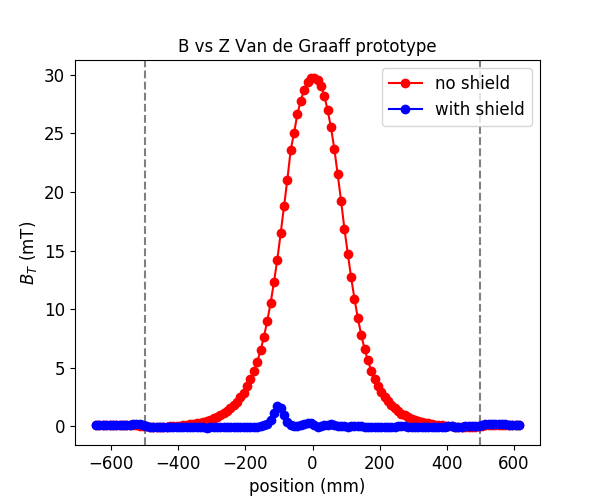
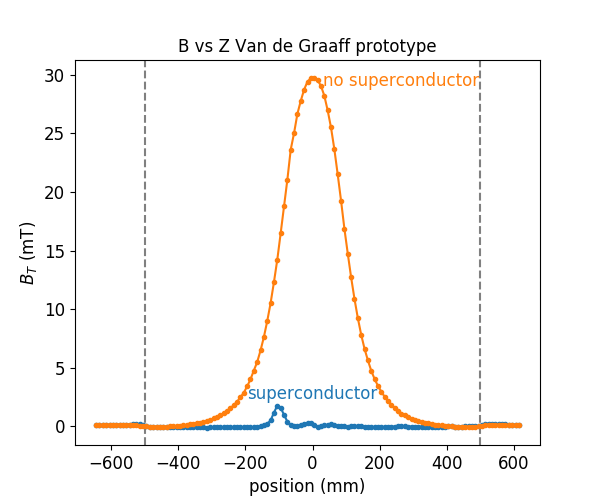
Update plot

Changed region(s): [[0.15, 0.12, 0.87, 0.87], [0.72, 0.21, 0.9, 0.24], [0.63, 0.21, 0.69, 0.24]]

diff --git a/pycloak/shielding_pub17/plot_shielding_BvsZ_vdg2layer.py b/pycloak/shielding_pub17/plot_shielding_BvsZ_vdg2layer.py
@@ -44,15 +44,17 @@ data_shield['pos'] = data_shield['pos'] - zcenter
 # ...
 
 # plot curves
-ax.plot( data_noshield['pos'], data_noshield['B1'], marker='o', color='r', label="no shield")
-ax.plot( data_shield['pos'], data_shield['B1'], marker='o', color='b', label="with shield")
+plt1=ax.plot( data_shield['pos'], data_shield['B1'], marker='.', label='shield')
+plt2=ax.plot( data_noshield['pos'], data_noshield['B1'], marker='.', label='no shield')
 
 # plot cosmetics: set axis parameters
 # ax.set_xlim(-12000, 12000)
 # ax.set_ylim(0,500)
 
 # add legend
-ax.legend(loc = 'upper right', prop={'size':12})
+#ax.legend(loc = 'upper right', prop={'size':12})
+ax.text(-195, 2.3, 'superconductor',fontsize=12,color=plt1[0].get_color())
+ax.text(30, 29, 'no superconductor',fontsize=12,color=plt2[0].get_color())
 
 # save & display
 plt.savefig("plots/shield_BvsZ_vdg2layer.png")
